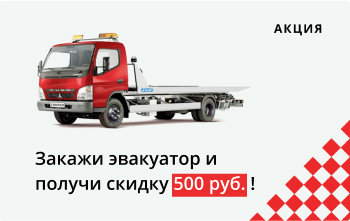
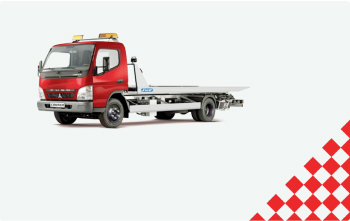
remove actions img and add static text

Changed region(s): [[0.0857, 0.6787, 0.7429, 0.8959], [0.7714, 0.1086, 0.9429, 0.1629]]

diff --git a/app/index.html b/app/index.html
@@ -378,13 +378,25 @@
 			<div class="container column">
 				<div class="js-actions-slider actions__container flex flex__align-justify">
 					<div class="actions__item">
+						<div class="actions__category">АКЦИЯ</div>
 						<a href="#"><img src="img/actions/action__1.jpg" alt=""></a>
+						<div class="actions__excerpt">
+							Закажи эвакуатор и получи скидку <span class="actions__excerpt-accent">500 руб.</span> !
+						</div>
 					</div>
-					<div class="actions__item">
+					<div class="actions__item actions__item--dark-content">
+						<div class="actions__category">АКЦИЯ</div>
 						<a href="#"><img src="img/actions/action__2.jpg" alt=""></a>
+						<div class="actions__excerpt">
+							Конкурс «Водитель по призванию»
+						</div>
 					</div>
 					<div class="actions__item">
+						<div class="actions__category">АКЦИЯ</div>
 						<a href="#"><img src="img/actions/action__3.jpg" alt=""></a>
+						<div class="actions__excerpt">
+							Вывезем ваш строительный мусор!
+						</div>
 					</div>
 				</div>
 			</div>

diff --git a/app/js/common.js b/app/js/common.js
@@ -125,12 +125,12 @@ $(function() {
 		});
 		
 		//mobile actions slider
-
 		$(window).on('resize load', function() {
 			let actionBlock = $('.js-actions-slider');
-			actionBlock.removeClass('actions__container flex flex__align-justify');
+			
 
 			if ( $(window).width() < 1140 ) {
+				actionBlock.removeClass('actions__container flex flex__align-justify');
 				actionBlock.slick({
 					speed: 700,
 					slidesToShow: 1,
@@ -140,6 +140,7 @@ $(function() {
 					dotsClass: 'patrners__dots flex flex__align-center',
 				});
 			} else {
+				actionBlock.addClass('actions__container flex flex__align-justify');
 				actionBlock.slick('unslick');
 			}
 

diff --git a/app/js/scripts.min.js b/app/js/scripts.min.js
@@ -130,12 +130,12 @@ $(function() {
 		});
 		
 		//mobile actions slider
-
 		$(window).on('resize load', function() {
 			let actionBlock = $('.js-actions-slider');
-			actionBlock.removeClass('actions__container flex flex__align-justify');
+			
 
 			if ( $(window).width() < 1140 ) {
+				actionBlock.removeClass('actions__container flex flex__align-justify');
 				actionBlock.slick({
 					speed: 700,
 					slidesToShow: 1,
@@ -145,6 +145,7 @@ $(function() {
 					dotsClass: 'patrners__dots flex flex__align-center',
 				});
 			} else {
+				actionBlock.addClass('actions__container flex flex__align-justify');
 				actionBlock.slick('unslick');
 			}
 

diff --git a/app/sass/_actions.sass b/app/sass/_actions.sass
@@ -7,3 +7,32 @@
 
 	&__item
 		width: 350px
+		position: relative
+
+		&--dark-content
+			color: $white
+
+		& a
+			outline: none
+
+	&__category
+		position: absolute
+		right: 26px
+		top: 19px
+		font-size: 12px
+		font-weight: 800
+	
+	&__excerpt
+		position: absolute
+		bottom: 20px
+		left: 35px
+		font-size: 18px
+		line-height: 25px
+		max-width: 226px
+		font-weight: 600
+
+		&-accent
+			color: $white
+			background: $accent
+			padding: 0 2px 3px 2px
+
